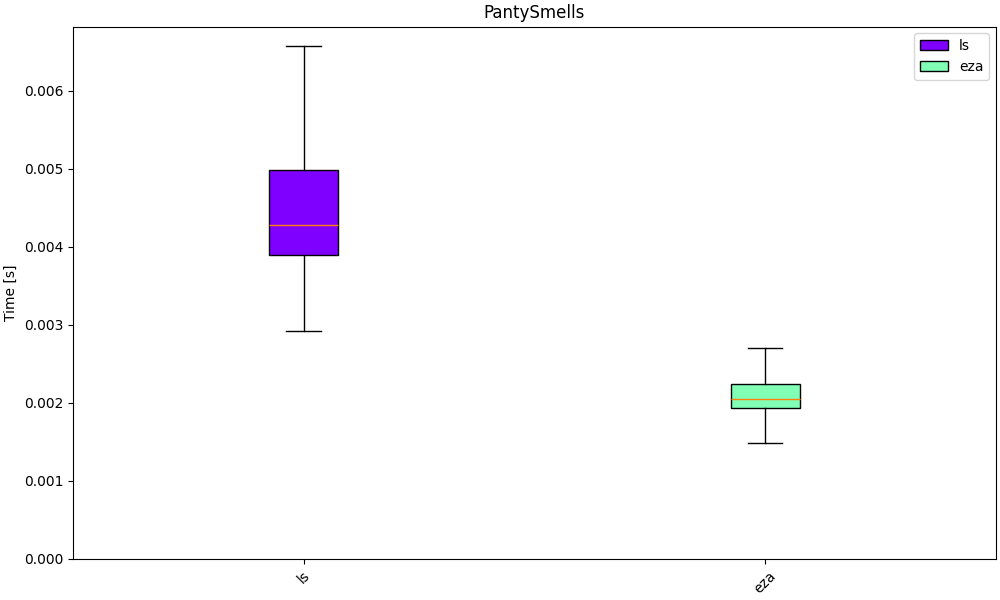
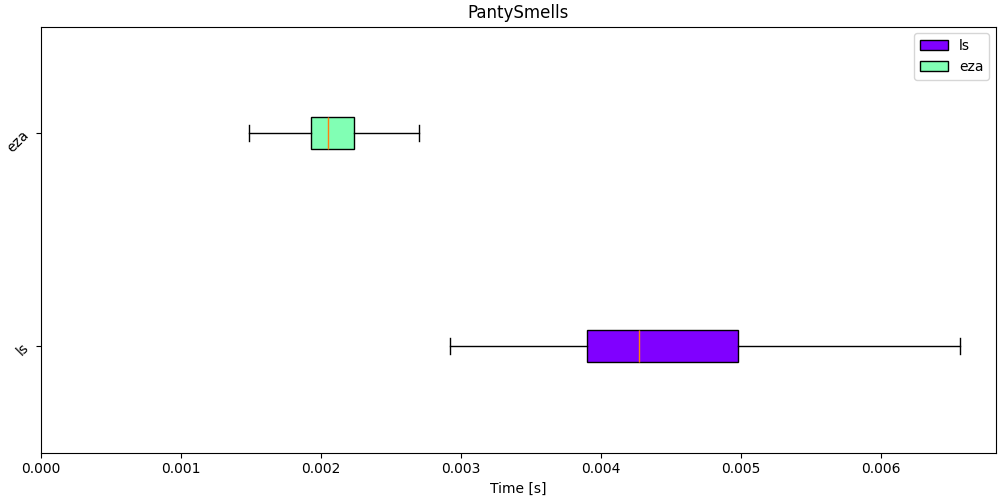
🫦

diff --git a/WORKZ/HYP/h3/plotTEST/plot_whisker.py b/WORKZ/HYP/h3/plotTEST/plot_whisker.py
@@ -46,8 +46,11 @@ if args.sort_by == "median":
     labels = [labels[i] for i in indices]
     times = [times[i] for i in indices]
 
-plt.figure(figsize=(10, 6), constrained_layout=True)
-boxplot = plt.boxplot(times, vert=True, patch_artist=True, showfliers=False)
+# --- Plot Params
+plt.figure(figsize=(10, 5), constrained_layout=True)
+boxplot = plt.boxplot(times, vert=False, patch_artist=True, showfliers=False)
+# --
+
 cmap = plt.get_cmap("rainbow")
 colors = [cmap(val / len(times)) for val in range(len(times))]
 
@@ -57,9 +60,9 @@ for patch, color in zip(boxplot["boxes"], colors):
 if args.title:
     plt.title(args.title)
 plt.legend(handles=boxplot["boxes"], labels=labels, loc="best", fontsize="medium")
-plt.ylabel("Time [s]")
-plt.ylim(0, None)
-plt.xticks(list(range(1, len(labels) + 1)), labels, rotation=45)
+plt.xlabel("Time [s]")
+plt.xlim(0, None)
+plt.yticks(list(range(1, len(labels) + 1)), labels, rotation=45)
 if args.output:
     plt.savefig(args.output)
 else:
